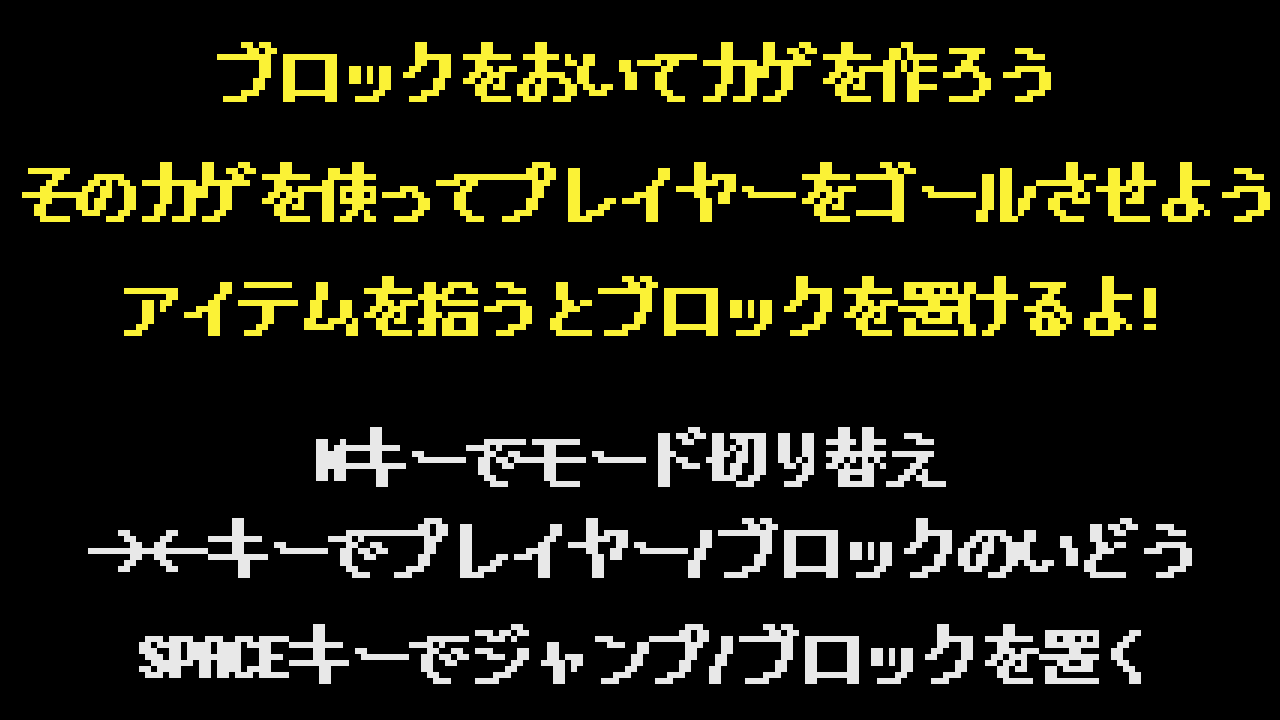
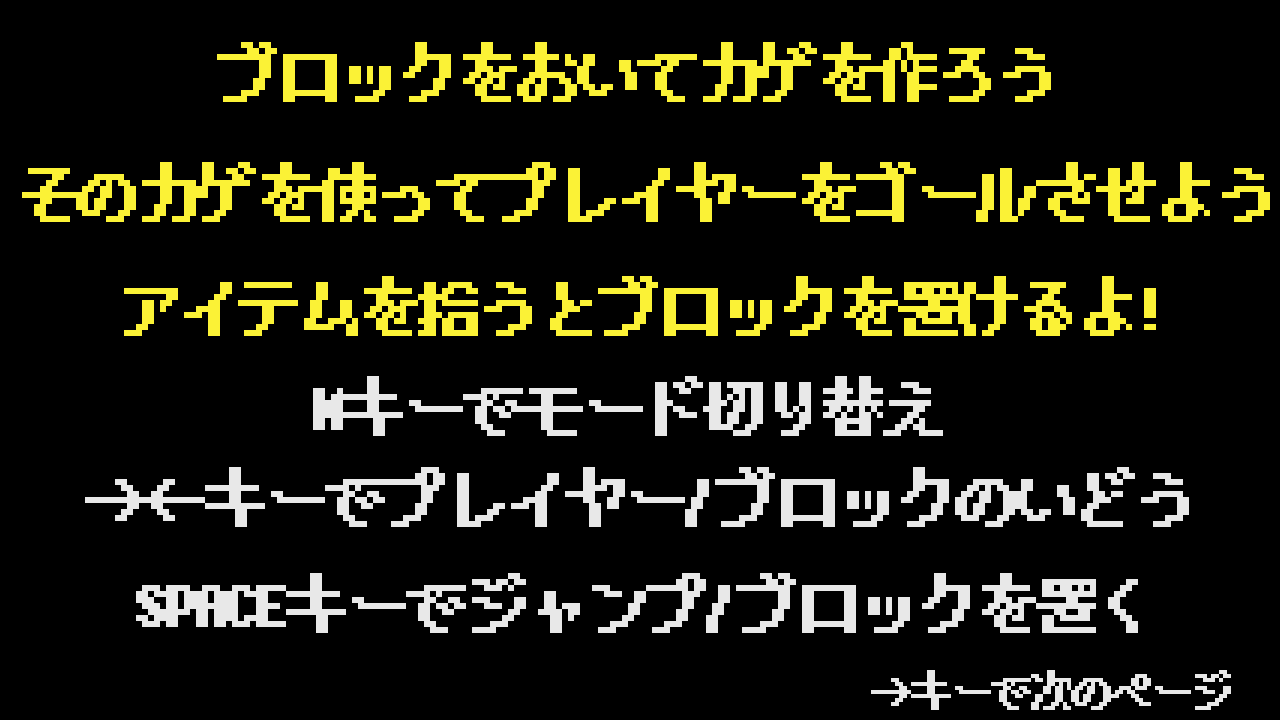
説明画面追加

Changed region(s): [[0.0625, 0.5194, 0.9688, 1.0]]

diff --git a/main.cpp b/main.cpp
@@ -135,6 +135,7 @@ int WINAPI WinMain(HINSTANCE, HINSTANCE, LPSTR, int)
 	Sprite::LoadTexture(14, L"Resources/GAMECLEAR.png");
 	Sprite::LoadTexture(15, L"Resources/GAMEOVER.png");
 	Sprite::LoadTexture(16, L"Resources/EXPLATION.png");
+	Sprite::LoadTexture(17, L"Resources/EXPLATION2.png");
 	sprite[0] = Sprite::Create(0, { 0.0f,0.0f });
 	sprite[1] = Sprite::Create(1, { 0.0f,0.0f });
 	sprite[2] = Sprite::Create(2, { 0.0f,0.0f });
@@ -142,6 +143,7 @@ int WINAPI WinMain(HINSTANCE, HINSTANCE, LPSTR, int)
 	sprite[4] = Sprite::Create(14, { 0.0f,0.0f });
 	sprite[5] = Sprite::Create(15, { 0.0f,0.0f });
 	sprite[6] = Sprite::Create(16, { 0.0f,0.0f });
+	sprite[7] = Sprite::Create(17, { 0.0f,0.0f });
 	Sprite* spriteNumber[SpriteNumberMax] = { nullptr };
 	spriteNumber[0] = Sprite::Create(3, { 0.0f,0.0f });
 	spriteNumber[1] = Sprite::Create(4, { 0.0f,0.0f });
@@ -158,7 +160,7 @@ int WINAPI WinMain(HINSTANCE, HINSTANCE, LPSTR, int)
 		spriteNumber[i]->SetSize({ 120.0f,120.0f });
 		spriteNumber[i]->SetPosition({ 210,0 });
 	}
-	//sprite[2]->SetPosition({ 200,20 });
+	int ExplanationNumber = 0;
 #pragma endregion
 #pragma region//オーディオ
 	const int AudioMax = 3;
@@ -545,11 +547,14 @@ int WINAPI WinMain(HINSTANCE, HINSTANCE, LPSTR, int)
 #pragma endregion
 #pragma region//説明
 		if (Scene == explation) {
-			if (input->TriggerKey(DIK_SPACE)) {
+			if (input->TriggerKey(DIK_RIGHT)) {
+				ExplanationNumber = 1;
+			}
+			if ((input->TriggerKey(DIK_SPACE)) && (ExplanationNumber == 1)) {
 				SpaceCount++;
 			}
 
-			if (SpaceCount == 3) {
+			if (SpaceCount == 2) {
 				Scene = gamePlay;
 				SpaceCount = 0;
 			}
@@ -908,6 +913,7 @@ int WINAPI WinMain(HINSTANCE, HINSTANCE, LPSTR, int)
 
 		if (ResetFlag == 1) {
 			//各変数初期化
+			ExplanationNumber = 0;
 			JumpG = 0.0f;
 			PlayerAlive = 1;
 			PlayerDirectionNumber = 0;
@@ -1168,7 +1174,11 @@ int WINAPI WinMain(HINSTANCE, HINSTANCE, LPSTR, int)
 		}
 
 		else if (Scene == explation) {
-			sprite[6]->Draw();
+			if (ExplanationNumber == 0) {
+				sprite[6]->Draw();
+			} else {
+				sprite[7]->Draw();
+			}
 		}
 
 		else if (Scene == gamePlay) {
